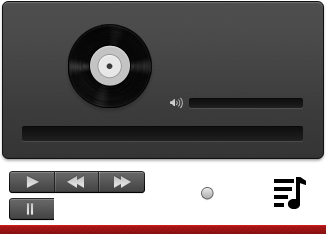
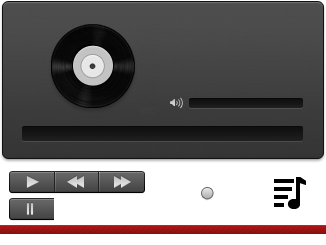
some minor changes

Changed region(s): [[0.1534, 0.0857, 0.4908, 0.4571]]

diff --git a/script/custom.js b/script/custom.js
@@ -40,8 +40,7 @@ $(document).on('click', '.category-item', function(){
                             <div class="player mb-4">
                                 <div class="pl"></div>
                                 <div class="title"></div>                    
-                                <div class="artist"></div>
-                                <div class="cover"></div>
+                                <div class="artist"></div>                                
                                 <div class="controls">
                                     <div class="play"></div>
                                     <div class="pause"></div>
@@ -400,6 +399,7 @@ var modalConfirm = function (callback) {
     $(".song-remove-btn").on("click", function () {
         $("#song_id").val($(this).attr('attr-id'));
         $("#song_name").val($(this).attr('attr-name'));
+        $("#removeModal p").text("Are you sure you want to remove "+$(this).attr('attr-name')+"?");
         $("#removeModal").modal('show');
     });
 

diff --git a/script/player.js b/script/player.js
@@ -34,8 +34,7 @@
         } else {
             $('.player .title').append('<a attr-id="'+elem.attr('attr-id')+'" attr-text="'+ elem.text() +'" audiourl="'+url+'" class="add-favorite-player-btn ml-1"><i class="fa fa-heart" style="color: #f00;"></i></a>');
         }
-        $('.player .artist').text(artist);
-        $('.player .cover').css('background-image','url("'+cover+'")');;
+        $('.player .artist').text(artist);        
 
         song = null;
         song = new Audio(url);

diff --git a/admin/categories/edit.php b/admin/categories/edit.php
@@ -56,7 +56,7 @@ $songs = getSongsByCategoryId($category_id);
                     <div>
                         <input id="category_id" style="display:none;" value="<?= $category_id ?>">
                         <input id="category_name" style="display:none;" value="<?= $category['category_name'] ?>">
-                        <input type="file" id="uploadBtn" class="btn btn-primary btn-add-image" style="display: none;">
+                        <input type="file" id="uploadBtn" class="btn btn-primary btn-add-image" style="display: none;" multiple>
                         <input type="button" id="changeCategoryNameBtn" class="btn btn-primary pull-right ml-2" value="Change Category Name">
                         <label for="uploadBtn" class="btn btn-primary pull-right">Add New Song</label>   
                         <div class="progress pull-right">
@@ -124,7 +124,7 @@ $songs = getSongsByCategoryId($category_id);
                     <button type="button" class="close" data-dismiss="modal">&times;</button>
                 </div>
                 <div class="modal-body">
-                    <p>Are you sure to remove a song?</p>
+                    <p></p>
                 </div>
                 <input id="song_id" style="display:none;" >
                 <input id="song_name" style="display:none;" >                        
@@ -165,6 +165,8 @@ include_once($_SERVER['DOCUMENT_ROOT'] . $subdir . "/includes/footer.php");
 ?>
 <script>
     $(document).ready(function() {
-        $('.use-dataTable').dataTable();
+        $('.use-dataTable').dataTable({
+            "pageLength": 50
+        });
     });
 </script> 

diff --git a/core/songs.php b/core/songs.php
@@ -103,7 +103,7 @@ class Songs{
                 $qry->bind_result($id);
                 if($qry->fetch()) {
                     if($id) {
-                        $result['error'] = 'Song is already exist in this category';
+                        $result['error'] = 'Song already exists in this category!';
                         $qry->close();
                         return $result;
                     }

diff --git a/admin/categories/index.php b/admin/categories/index.php
@@ -110,6 +110,8 @@ include_once($_SERVER['DOCUMENT_ROOT'] . $subdir . "/includes/footer.php");
 ?>
 <script>
     $(document).ready(function() {
-        $('.use-dataTable').dataTable();
+        $('.use-dataTable').dataTable({
+            "pageLength": 100
+        });
     });
 </script> 
